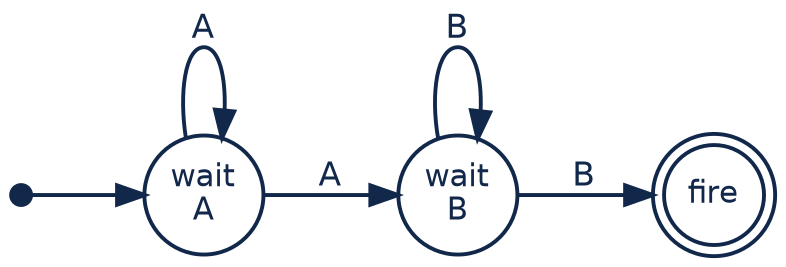
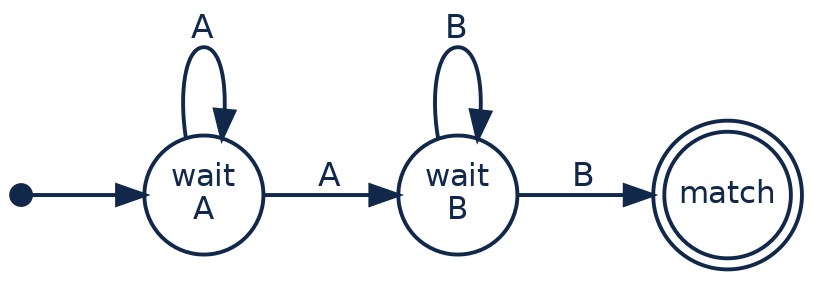
Patterns: the accepting place is labelled `match`, not `fire`
The double circle said "fire". That is the right verb — a token that reaches
the accepting place fires, and the traces below say so, "fires {1,1}" — but a
bad label, for three reasons that only show up when the two terminal circles
are read as the pair they are.

The two circles are the only two ways a token can end: one producing a row, one
producing nothing. They therefore have to sit on the same axis, and "fire" and
"dead" did not — a verb against an adjective. "match" and "dead" both say how
the instance ended, and the verb survives untouched in the prose and in every
trace table.

Second, this module's running example is a fire alarm. In a lecture about
detecting fires, the word `fire` inside a circle reads as the noun, and a
student sees "here a fire was detected" rather than "here the pattern fires".

Third, the colours were fighting the words. The dead circle is red, which in a
drawing means danger; the old label put the alarm-sounding word in the *other*
circle. With `match` the red means only "this instance was discarded".

The readme follows the figures rather than merely surviving them. The legend
names both labels now — "double circle, `match`" and "dashed red circle,
`dead`" — and the sentence that defines the vocabulary ties the three words
together, ending with the thing that makes the pair a pair: those two circles
are the only two ways a token can end.

All seven figures are regenerated from reference/tools/lecture5/diagrams-make.py
[…]

Changed region(s): [[0.0, 0.03, 1.0, 0.9888]]

diff --git a/Streaming Data Engineering/EPL/epl-every-and-guard-patterns/readme.md b/Streaming Data Engineering/EPL/epl-every-and-guard-patterns/readme.md
@@ -49,8 +49,10 @@ accepting place. It is drawn once and it never changes — it is what you wrote.
 
 The **tokens** are what runs on it. A token is one partial match in progress: it sits on a
 place, and it carries **its own bindings** for `x`, `y`, `z` and its own clock. Every arriving
-event is offered to every token. A token that reaches the accepting place **fires** — it emits
-one row, made of the bindings it was carrying, and it is gone.
+event is offered to every token. A token that reaches the accepting place — the double circle
+marked **match** — **fires**: it emits one row, made of the bindings it was carrying, and it is
+gone. A token that reaches the dashed red circle marked **dead** ends the other way, producing
+nothing. Those two circles are the only two ways a token can end.
 
 *Token* and **instance** mean the same thing below; the first is the better word when what
 matters is how many are on the board, the second when what matters is what one of them is
@@ -92,8 +94,8 @@ That is the whole difference, and section 2 measures it.
 |---|---|
 | filled dot | where a token is put down |
 | plain circle | a place a token can wait on |
-| double circle | the accepting place: a token that gets here emits a row and is gone |
-| dashed red circle | where the engine takes a token off the board — **silently** |
+| double circle, `match` | the accepting place: a token that gets here emits a row and is gone |
+| dashed red circle, `dead` | where the engine takes a token off the board — **silently** |
 | self-loop | an `every`: the edge that puts down a token without picking one up |
 | dashed grey edge | a token replaced after a match, not a transition on an event |
 
